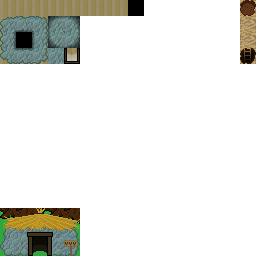
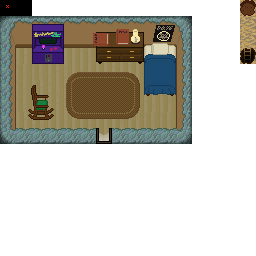
Dot's house

diff --git a/README.md b/README.md
@@ -16,7 +16,7 @@ Tentatively aiming for full release 29 September 2023, the first full moon of au
 - [x] datan: Generate tile usage report.
 - [x] Steppe: hole tile.
 - [x] Village/forest boundary, need big tree on the village side.
-- [ ] Furnish Dot's house.
+- [x] Furnish Dot's house.
 - [x] Big tree edges don't line up.
 - [x] image castleext: Water-into-trees, 4 tiles needed.
 - [x] desert: tiles for forest boundary
